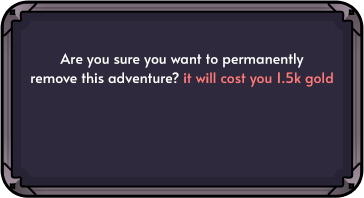
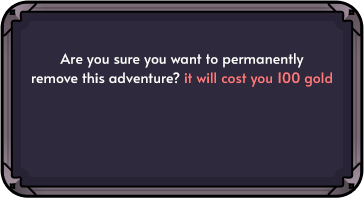
Feat(FinalProject/api/app): New balance cost for dailyQuest and Adventures. dailyQuest reward is random and shows the winning reward amount.

Changed region(s): [[0.0604, 0.3636, 0.9368, 0.4545]]

diff --git a/staff/jaume-rodriguez/FinalProject/app/src/components/DailyQuest.js b/staff/jaume-rodriguez/FinalProject/app/src/components/DailyQuest.js
@@ -13,6 +13,7 @@ import GAME_CONSTANTS from '../shared/constants';
 
 function DailyQuest({ onClose }) {
     const [dailyQuest, setDailyQuest] = useState(null)
+    const [reward, setReward] = useState(null)
     const [user, setUser] = useState(null)
     const [hoverButtonDone, setHoverButtonDone] = useState(false)
     const [hoverButtonPlayQuest, setHoverButtonPlayQuest] = useState(false)
@@ -45,13 +46,23 @@ function DailyQuest({ onClose }) {
             .then(quest => {
                 setDailyQuest(quest)
                 playQuest(sessionStorage.token, quest.id)
+                    .then(reward => {
+                        setReward(reward)
+                    })
             })
+            .catch(error => alert(error.message))
     };
 
     return (
         <section className="bg-[#191919]/75 fixed left-0 top-0 h-full w-full flex flex-col justify-center items-center overflow-hidden z-10" onClick={onClose}>
             <div className="flex flex-col justify-center" onClick={event => event.stopPropagation()}>
                 <div className=''>
+                    <span className='absolute w-[5rem] text-right mt-[14rem] ml-[12.15rem] text-orange-300'>
+                        {reward === null ? "?" : reward === 1 ? "3" : reward <= 29 ? "2" : "1"}
+                    </span>
+                    <span className='absolute w-[5rem] text-right mt-[15.25rem] ml-[12.15rem] text-orange-300'>
+                        {reward === null ? "?" : reward === 1 ? "50" : reward <= 29 ? "25" : "10"}
+                    </span>
                     <img
                         className=''
                         src={bgDailyQuest}
@@ -87,7 +98,7 @@ function DailyQuest({ onClose }) {
                         />
                         :
                         [
-                            <span key="text-not-ready" className='absolute z-10 text-rose-300 ml-[3rem] mt-[11.70rem] text-center w-[16rem] h-[4.5rem] bg-inherit'>
+                            <span key="text-not-ready" className='absolute z-10 text-rose-300 ml-[3rem] mt-[12.4rem] text-center w-[16rem] h-[4.5rem] bg-inherit'>
                                 You are not ready yet to take on your next quest
                             </span>
                             ,

diff --git a/staff/jaume-rodriguez/FinalProject/api/logic/playAdventure.js b/staff/jaume-rodriguez/FinalProject/api/logic/playAdventure.js
@@ -10,7 +10,7 @@ function playAdventure(userId, adventureId) {
 
     let hasNewUnicPlayer = false
     let hasBeenCompleted = false
-    let hasFinishedAdventure = false
+    let hasDoneAStep = false
     let foundUser = null
     let foundAdventure = null
     return User.findById(userId)
@@ -34,14 +34,14 @@ function playAdventure(userId, adventureId) {
                 hasNewUnicPlayer = true
             }
             adventurePlayed.lastStepPlayedTime = Date.now()
+            hasDoneAStep = true
             adventurePlayed.stepsCompleted++
-            foundUser.gold -= 200
+            foundUser.gold -= 25
 
             const totalSteps = adventure.steps.length // NOTE: This is why we need the adventure
             if (adventurePlayed.stepsCompleted >= totalSteps) {
                 adventurePlayed.stepsCompleted = 0
-                foundUser.exp += 3000
-                hasFinishedAdventure = true
+                foundUser.combatPoints += 100
                 adventurePlayed.timesCompleted++
                 hasBeenCompleted = true
                 // NOTE: Given a quest that has been already completed, then we display the texts of all steps, but restart the progress
@@ -57,8 +57,8 @@ function playAdventure(userId, adventureId) {
         .then(creatorUser => {
             if (!creatorUser)
                 throw new NotFoundError('cretor user not registered')
-            else if (hasFinishedAdventure === true)
-                creatorUser.gold += 25
+            else if (hasDoneAStep === true)
+                creatorUser.gold += 5
             return creatorUser.save()
         })
 

diff --git a/staff/jaume-rodriguez/FinalProject/app/src/pages/Ranking.js b/staff/jaume-rodriguez/FinalProject/app/src/pages/Ranking.js
@@ -33,7 +33,7 @@ function Adventure() {
                     <section className='ml-[1rem]'>
                         {users &&
                             <section className='flex flex-col h-[27rem] w-[21.813rem] bg-inherit justify-start items-center overflow-y-scroll scrollbar overscroll-contain '>
-                                {users.sort((a, b) => b.exp - a.exp).map((user, i) =>
+                                {users.sort((a, b) => b.combatPoints - a.combatPoints).map((user, i) =>
                                     <div key={user.id} className=" mt-[0.7rem] flex flex-col relative">
                                         <span className="text-orange-200 absolute ml-[2rem] mt-[1.1rem]">
                                             {i + 1}
@@ -42,7 +42,7 @@ function Adventure() {
                                             {user?.name}
                                         </span>
                                         <span className="text-gray-300 absolute ml-[7.5rem] mt-[1.1rem] text-lg text-right w-[9rem] text-right">
-                                            {user?.exp}
+                                            {user?.combatPoints}
                                         </span>
                                         <img
                                             className=''

diff --git a/staff/jaume-rodriguez/FinalProject/api/logic/playQuest.js b/staff/jaume-rodriguez/FinalProject/api/logic/playQuest.js
@@ -9,6 +9,7 @@ function playQuest(userId, questId) {
     validateUserId(userId)
     validateQuestId(questId)
 
+    let reward = 0
     let foundUser = null
     return User.findById(userId)
         .then(user => {
@@ -24,8 +25,20 @@ function playQuest(userId, questId) {
                 throw new NotFoundError('Quest does not exist')
             }
 
-            foundUser.gold += 100
-            foundUser.exp += 50
+            dailyQuestReward = Math.floor(Math.random() * 101)
+
+            if (dailyQuestReward <= 1) {
+                foundUser.gold += 50
+                foundUser.combatPoints += 3
+            } else if (dailyQuestReward <= 29) {
+                foundUser.gold += 25
+                foundUser.combatPoints += 2
+            } else {
+                foundUser.gold += 10
+                foundUser.combatPoints += 1
+            }
+            reward = dailyQuestReward
+
             const currentTimeMilliseconds = Date.now()
             const timeLapsed = currentTimeMilliseconds - foundUser.lastQuestPlayedTime
 
@@ -47,6 +60,6 @@ function playQuest(userId, questId) {
 
             return foundUser.save()
         })
-        .then(() => { })
+        .then(() => { return reward })
 }
 module.exports = playQuest

diff --git a/staff/jaume-rodriguez/FinalProject/app/src/pages/Home.js b/staff/jaume-rodriguez/FinalProject/app/src/pages/Home.js
@@ -1,7 +1,7 @@
 import { useState, useEffect } from 'react'
 import retrieveUser from '../logic/retrieveUser'
 import iconGold from '../img/icon-gold.png';
-import iconExp from '../img/icon-exp.png';
+import iconCombatPoints from '../img/icon-combat-points.png';
 import iconEdit from '../img/icon-edit.png';
 import iconCommunity from '../img/icon-community.png';
 import iconCommunityActive from '../img/icon-community-active.png';
@@ -65,9 +65,9 @@ function Home() {
                         <div className='flex flex-row justify-center mt-[2rem] gap-x-[1rem]'>
                             <img
                                 className=''
-                                src={iconExp}
-                                alt="exp" />
-                            <span className='absolute text-right w-[6rem] -ml-[9.5rem] mt-[0.5rem] text-[0.85rem]'>{user?.exp}</span>
+                                src={iconCombatPoints}
+                                alt="iconCombatPoints" />
+                            <span className='absolute text-right w-[6rem] -ml-[9.5rem] mt-[0.5rem] text-[0.85rem]'>{user?.combatPoints}</span>
                             <img
                                 className=''
                                 src={iconGold}

diff --git a/staff/jaume-rodriguez/FinalProject/app/src/pages/Adventure.js b/staff/jaume-rodriguez/FinalProject/app/src/pages/Adventure.js
@@ -173,7 +173,7 @@ function Adventure() {
                                             </span>
 
                                             {getStepsCompleted() === i && isReadyToPlayAdventureStep() &&
-                                                (user.gold >= 200
+                                                (user.gold >= 25
                                                     ? <img
                                                         className='w-[7.375rem] -mt-[3.7rem] ml-[12.7rem] cursor-pointer'
                                                         src={buttonPlayStep}

diff --git a/staff/jaume-rodriguez/FinalProject/app/src/logic/playQuest.js b/staff/jaume-rodriguez/FinalProject/app/src/logic/playQuest.js
@@ -12,9 +12,10 @@ function playQuest(token, questId) {
         xhr.onload = () => {
             const { status, responseText: json } = xhr
 
-            if (status === 204)
-                resolve()
-            else if (status === 400) {
+            if (status === 200) {
+                const reward = JSON.parse(json)
+                resolve(reward)
+            } else if (status === 400) {
                 const { error } = JSON.parse(json)
 
                 if (error.includes('is not a'))

diff --git a/staff/jaume-rodriguez/FinalProject/app/src/pages/MyAdventures.js b/staff/jaume-rodriguez/FinalProject/app/src/pages/MyAdventures.js
@@ -217,7 +217,7 @@ function UserAdventures() {
                     <section>
                         <div className='flex flex-col items-center mt-[1rem]'>
                             {user &&
-                                (user.gold >= 1000
+                                (user.gold >= 100
                                     ? <img
                                         onClick={openCreateAdventure}
                                         className='cursor-pointer'

diff --git a/staff/jaume-rodriguez/FinalProject/api/logic/retrieveUser.js b/staff/jaume-rodriguez/FinalProject/api/logic/retrieveUser.js
@@ -16,8 +16,8 @@ function retrieveUser(userId) {
             if (!user)
                 throw new NotFoundError(`user with id ${userId} does not exist`)
 
-            user.level = Math.floor(user.exp / 1000);
-            user.remainingExp = user.exp % 1000
+            user.level = Math.floor(user.combatPoints / 500);
+            user.remainingCombatPoints = user.combatPoints % 500
 
             // sanitize
             user.id = user._id.toString()

diff --git a/staff/jaume-rodriguez/FinalProject/api/models/schemas/user.js b/staff/jaume-rodriguez/FinalProject/api/models/schemas/user.js
@@ -16,9 +16,9 @@ module.exports = new Schema({
         type: String,
         required: true
     },
-    exp: {
+    combatPoints: {
         type: Number,
-        default: 25,
+        default: 0,
         required: true
     },
     level: {
@@ -28,7 +28,7 @@ module.exports = new Schema({
     },
     gold: {
         type: Number,
-        default: 100,
+        default: 50,
         required: true
     },
     lastQuestPlayedText: {

diff --git a/staff/jaume-rodriguez/FinalProject/api/handlers/handlerPlayQuest.js b/staff/jaume-rodriguez/FinalProject/api/handlers/handlerPlayQuest.js
@@ -6,7 +6,7 @@ module.exports = (req, res) => {
         const { userId, params: { questId } } = req
 
         playQuest(userId, questId)
-            .then(() => res.status(204).send())
+            .then(reward => res.json(reward))
             .catch(error => {
                 if (error instanceof NotFoundError)
                     res.status(404).json({ error: error.message })

diff --git a/staff/jaume-rodriguez/FinalProject/api/logic/createAdventure.js b/staff/jaume-rodriguez/FinalProject/api/logic/createAdventure.js
@@ -18,7 +18,7 @@ function createAdventure(userId, title, isMainAdventure) {
             return Adventure.create({ creator: userId, title, isMainAdventure })
         })
         .then(() => {
-            foundUser.gold -= 1000
+            foundUser.gold -= 100
             return foundUser.save()
         })
 }
